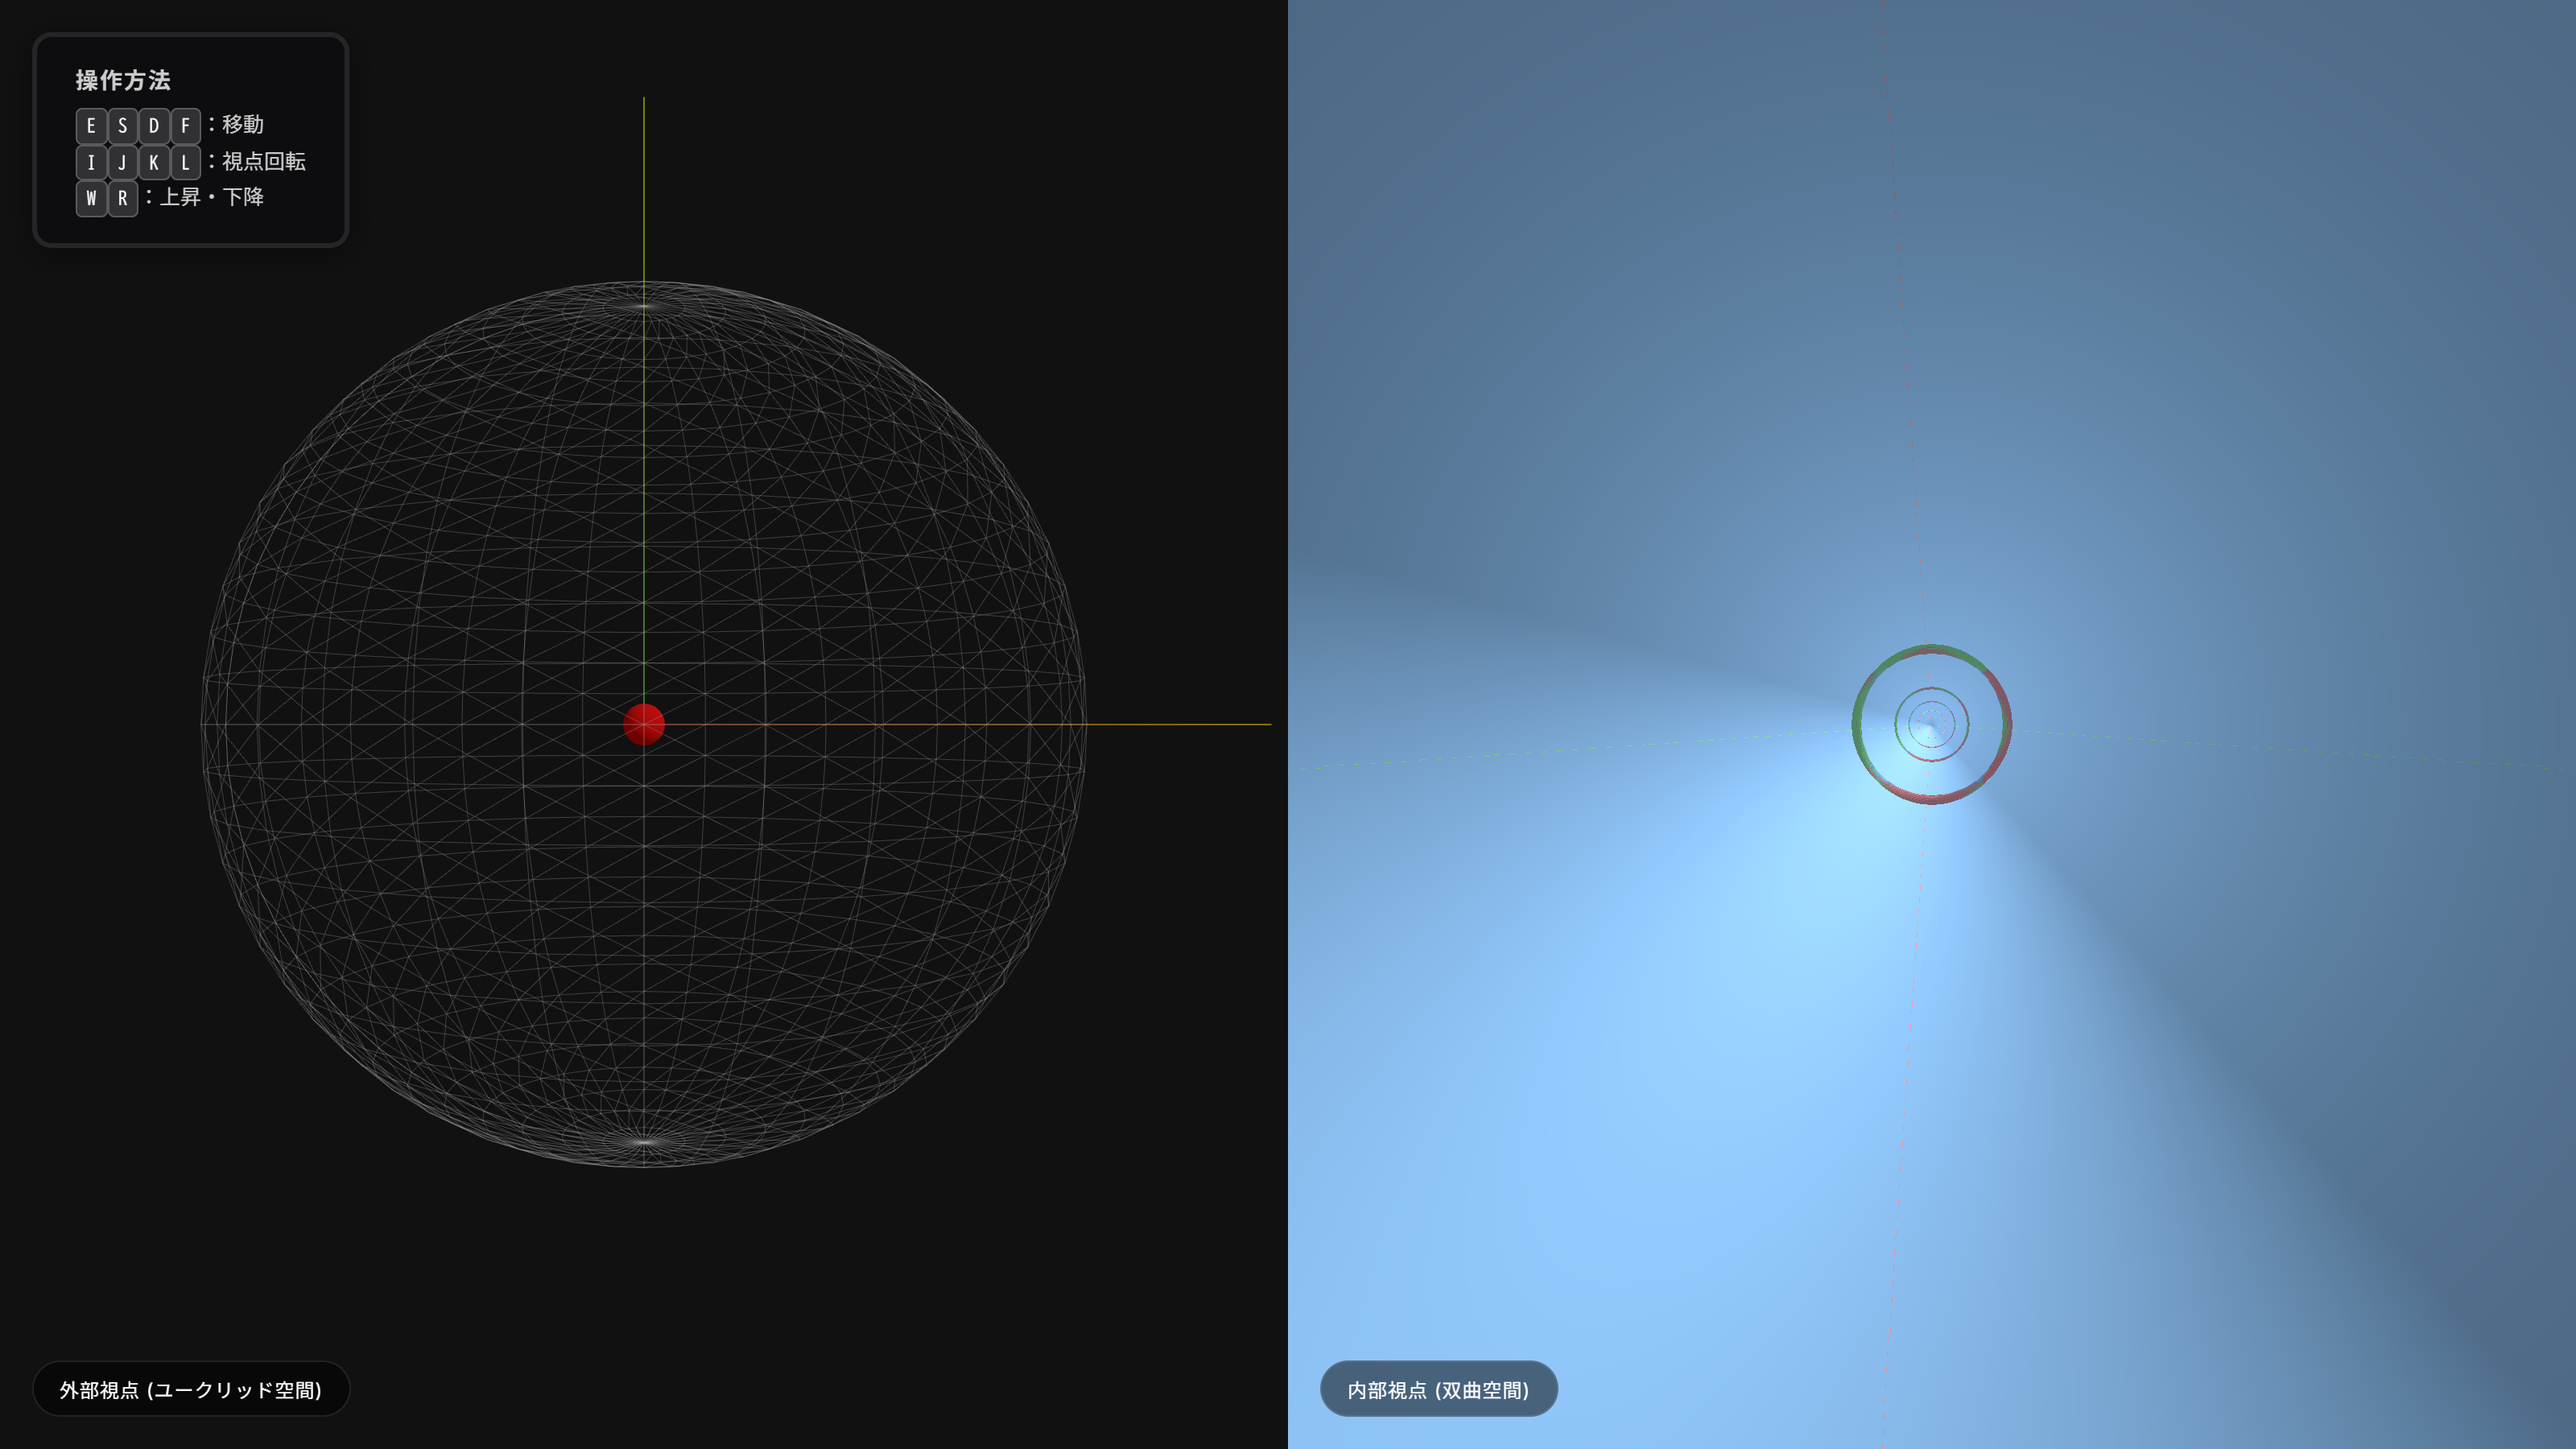
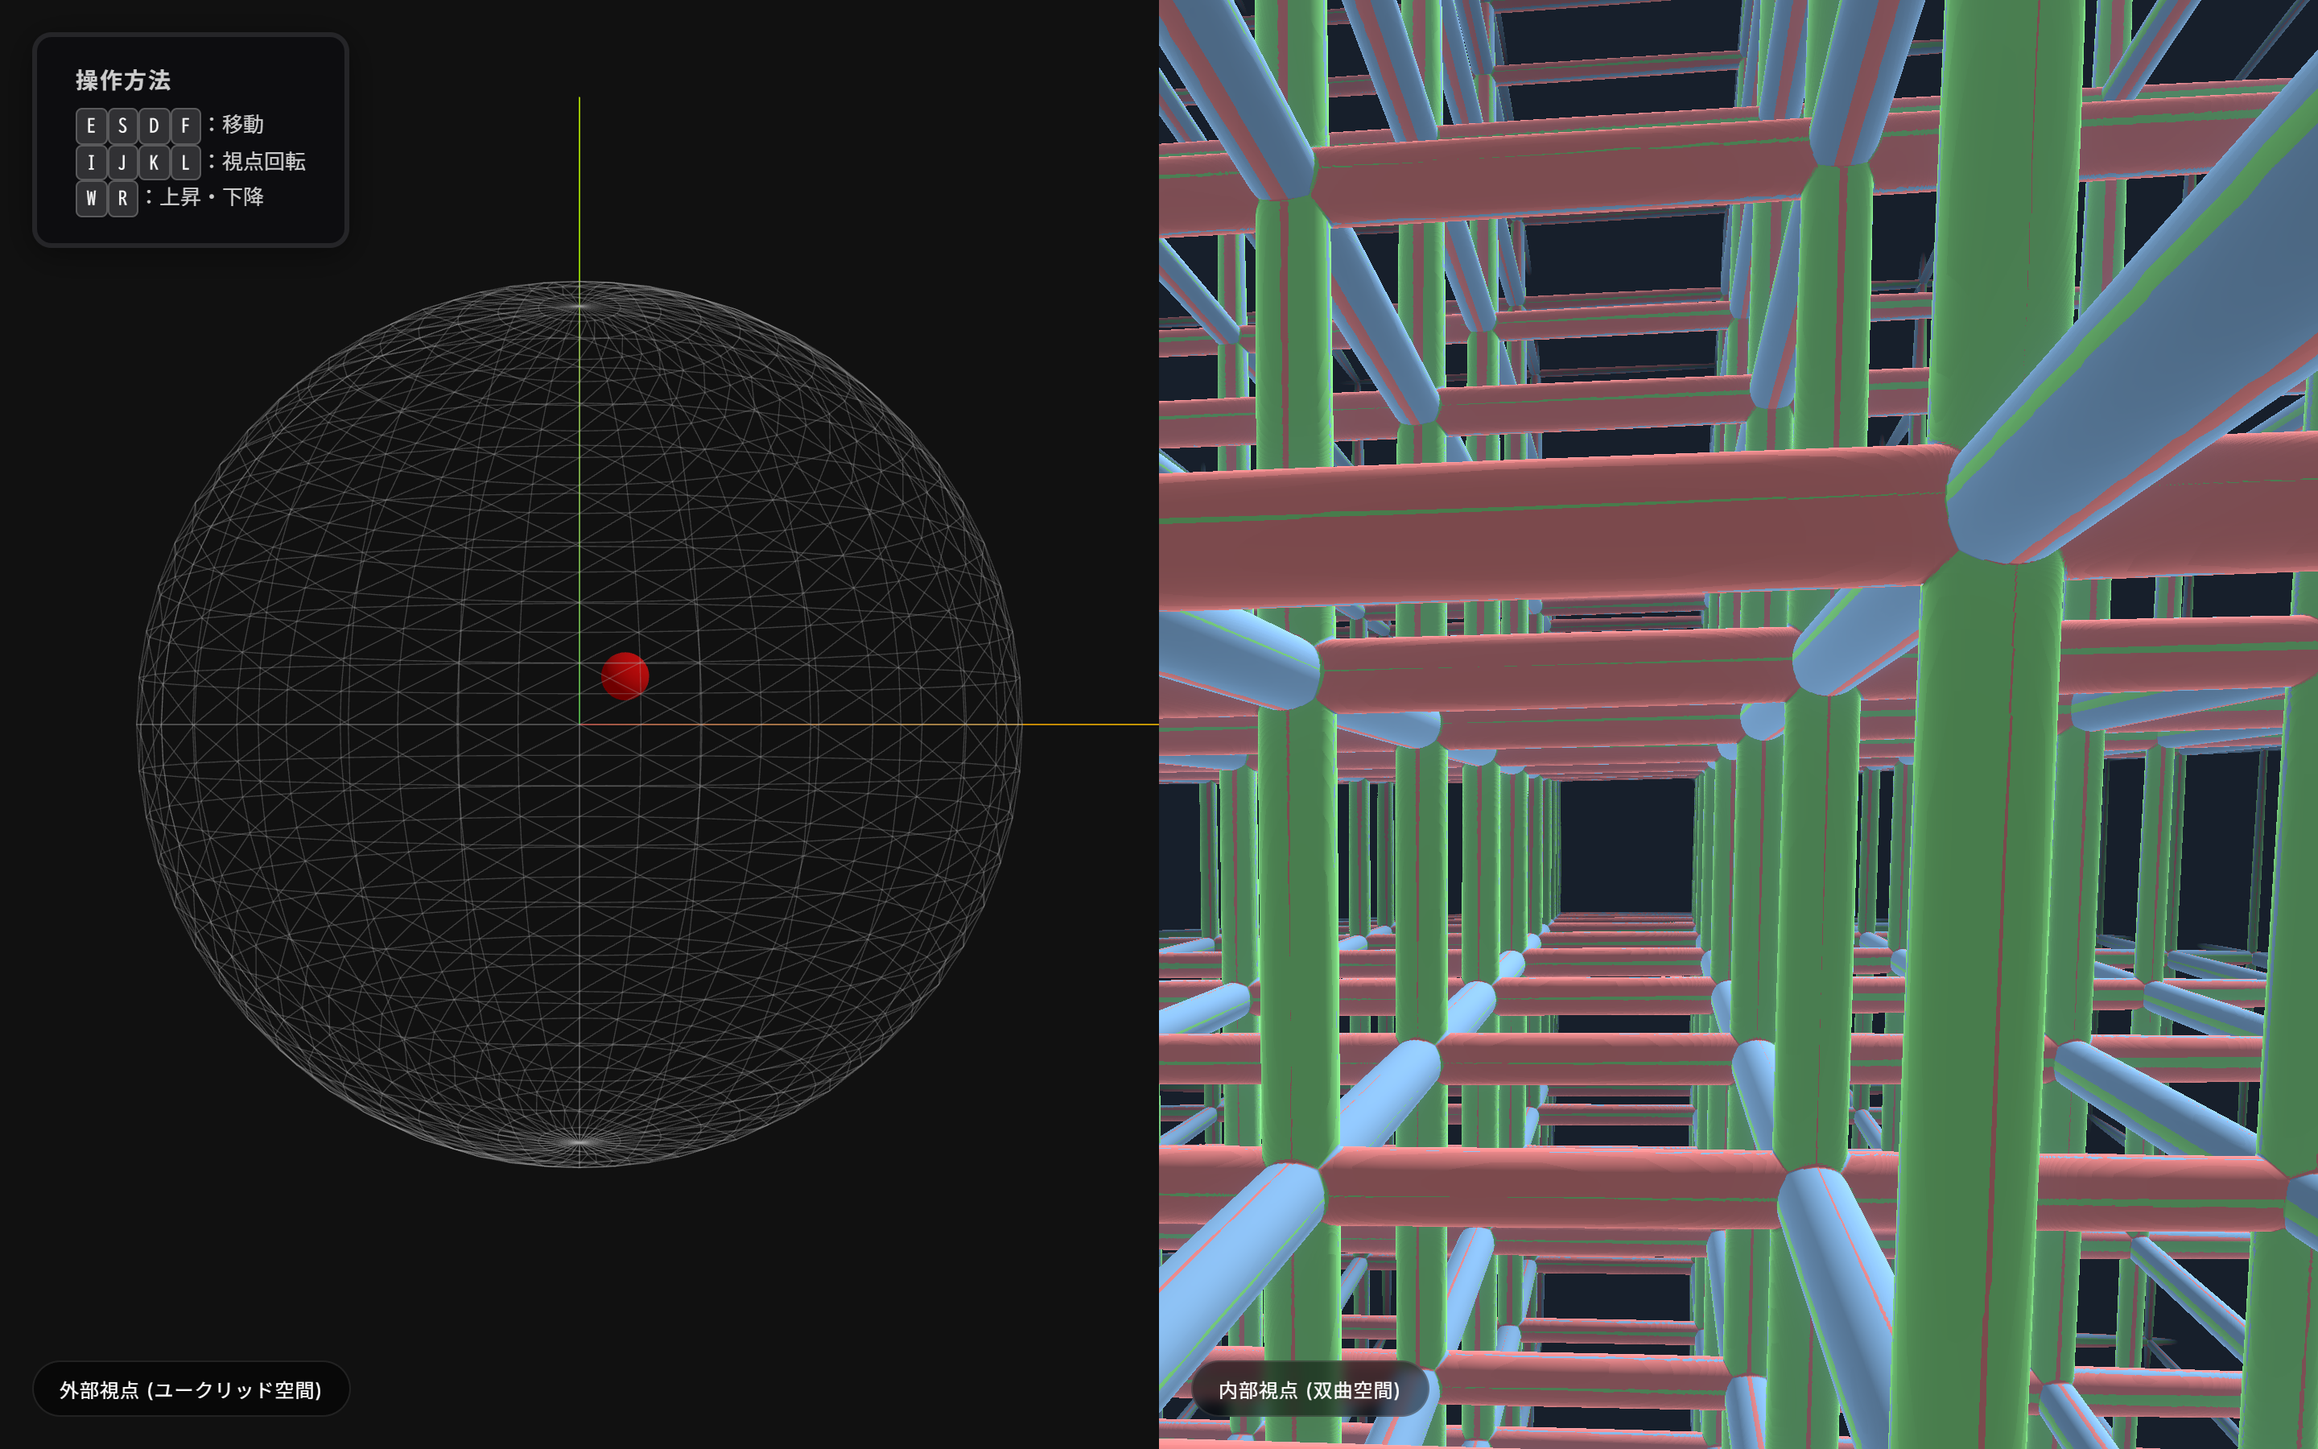
Poincare_Explorer のカバーを、格子が奥まで見える視点で撮り直す

diff --git a/src/content/works/poincare-explorer/index.md b/src/content/works/poincare-explorer/index.md
@@ -2,8 +2,8 @@
 title: "Poincare_Explorer"
 year: 2026 # 並びに使う年(最後に手を入れた年)。仮
 context: "授業課題"
-cover: ./cover.png # 起動して AI が撮った初期の視点(2026-10-25)
-coverAlt: "左に外から見たポアンカレ球のワイヤーフレーム、右に球の内側から見た双曲空間の映像"
+cover: ./cover.png # 起動して少し後ろへ下がり、横と上へずらした視点で AI が撮った(2026-10-25。初期位置は梁の交点で、右の視界がほぼ霧になる)。headless Chrome の SwiftShader だと格子が描かれないので GPU(--use-angle=d3d11)で撮った
+coverAlt: "左に外から見たポアンカレ球のワイヤーフレーム、右に球の内側から見た双曲空間。赤・緑・青の梁の格子が奥へ続く"
 # 写真を置いたら cover と coverAlt を書く。一覧カードの1行は summary、本文は下の --- の後に書く(README の「作品を足す」)
 # 資料: meiji/B4/4_コンピューティングトポロジー特論A/(WebGL、2026-01)
 ---
